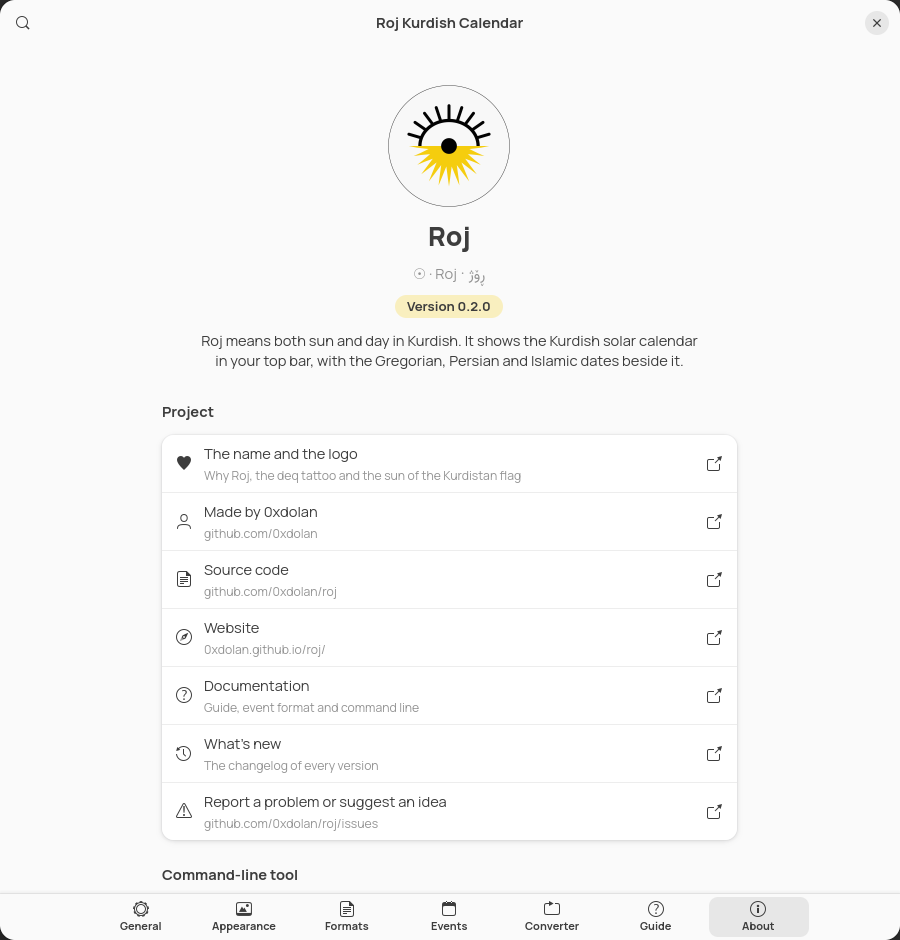
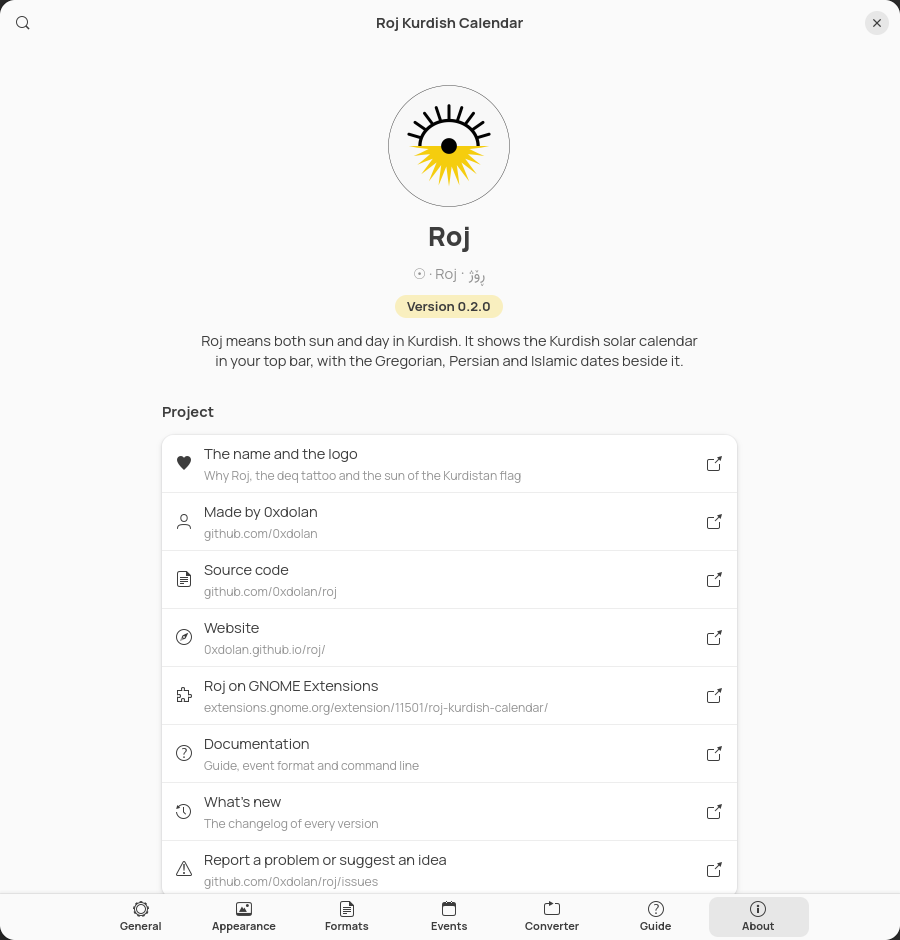
Link Roj's extensions.gnome.org listing
The listing (11501) is linked from the About page (EGO_URL), the README
badge, links and Install table, the website's install step and the
guide's Getting started.

Changed region(s): [[0.1867, 0.7096, 0.5289, 0.9564], [0.56, 0.7404, 0.5911, 0.7713]]

diff --git a/extension/prefs/aboutPage.js b/extension/prefs/aboutPage.js
@@ -9,7 +9,7 @@ import GObject from 'gi://GObject';
 import Gtk from 'gi://Gtk';
 
 import {
-    AUTHOR, AUTHOR_URL, CHANGELOG_URL, DOCS_URL, ISSUES_URL, PYROJ_URL, REPO_URL, SITE_URL,
+    AUTHOR, AUTHOR_URL, CHANGELOG_URL, DOCS_URL, EGO_URL, ISSUES_URL, PYROJ_URL, REPO_URL, SITE_URL,
     STORY_URL, TSROJ_URL, TSROJ_VERSION,
 } from '../lib/constants.js';
 import {textButton} from './common.js';
@@ -71,6 +71,7 @@ class RojAboutPage extends Adw.PreferencesPage {
         this._link(group, _('Made by {author}', {author: AUTHOR}), bare(AUTHOR_URL), AUTHOR_URL, 'avatar-default-symbolic');
         this._link(group, _('Source code'), bare(REPO_URL), REPO_URL, 'text-x-generic-symbolic');
         this._link(group, _('Website'), bare(SITE_URL), SITE_URL, 'web-browser-symbolic');
+        this._link(group, _('Roj on GNOME Extensions'), bare(EGO_URL), EGO_URL, 'application-x-addon-symbolic');
         this._link(group, _('Documentation'), _('Guide, event format and command line'), DOCS_URL, 'help-browser-symbolic');
         this._link(group, _('What’s new'), _('The changelog of every version'), CHANGELOG_URL, 'document-open-recent-symbolic');
         this._link(group, _('Report a problem or suggest an idea'), bare(ISSUES_URL), ISSUES_URL, 'dialog-warning-symbolic');

diff --git a/docs/index.html b/docs/index.html
@@ -81,7 +81,7 @@
       <h2>Install</h2>
       <p class="sub">The extension needs GNOME Shell 45 to 50: Ubuntu 24.04 and newer, Debian 13, Fedora 39 and newer, Kali with GNOME, and most current distributions. The <code>roj</code> command runs anywhere with GJS or Node.js.</p>
       <div class="steps">
-        <div class="step"><h3>extensions.gnome.org</h3><p>Search for <b>Roj</b> in the Extension Manager app, or on extensions.gnome.org, and switch it on. Updates arrive by themselves.</p></div>
+        <div class="step"><h3>extensions.gnome.org</h3><p>Open <a href="https://extensions.gnome.org/extension/11501/roj-kurdish-calendar/">Roj on extensions.gnome.org</a> and switch it on, or search for <b>Roj</b> in the Extension Manager app. Updates arrive by themselves.</p></div>
         <div class="step"><h3>Ubuntu PPA</h3><p>For Ubuntu 24.04, 25.10 and 26.04. apt keeps it up to date.</p>
 <pre><code>sudo add-apt-repository ppa:0xdolan/roj
 sudo apt install gnome-shell-extension-roj roj</code></pre></div>

diff --git a/docs/guide.html b/docs/guide.html
@@ -49,7 +49,7 @@
 
     <h2 id="start">Getting started</h2>
     <ol>
-      <li>Install Roj from extensions.gnome.org, the Ubuntu PPA, the .deb packages or the tarball. See <a href="./#install">Install</a>.</li>
+      <li>Install Roj from <a href="https://extensions.gnome.org/extension/11501/roj-kurdish-calendar/">extensions.gnome.org</a>, the Ubuntu PPA, the .deb packages or the tarball. See <a href="./#install">Install</a>.</li>
       <li>On Wayland, log out and back in once, so GNOME Shell loads it.</li>
       <li>The Kurdish date appears next to the clock. Click it to open the calendar.</li>
       <li>Choose your language: click <b>Settings</b> in the popup, then <b>General, Languages</b>.</li>

diff --git a/docs/calendar/engine/lib/constants.js b/docs/calendar/engine/lib/constants.js
@@ -10,6 +10,7 @@ export const AUTHOR = '0xdolan';
 export const REPO_URL = 'https://github.com/0xdolan/roj';
 export const SITE_URL = 'https://0xdolan.github.io/roj/';
 export const DOCS_URL = `${SITE_URL}guide.html`;
+export const EGO_URL = 'https://extensions.gnome.org/extension/11501/roj-kurdish-calendar/';
 export const ISSUES_URL = `${REPO_URL}/issues`;
 export const STORY_URL = `${SITE_URL}story.html`;
 export const CHANGELOG_URL = `${REPO_URL}/blob/main/CHANGELOG.md`;

diff --git a/extension/lib/constants.js b/extension/lib/constants.js
@@ -10,6 +10,7 @@ export const AUTHOR = '0xdolan';
 export const REPO_URL = 'https://github.com/0xdolan/roj';
 export const SITE_URL = 'https://0xdolan.github.io/roj/';
 export const DOCS_URL = `${SITE_URL}guide.html`;
+export const EGO_URL = 'https://extensions.gnome.org/extension/11501/roj-kurdish-calendar/';
 export const ISSUES_URL = `${REPO_URL}/issues`;
 export const STORY_URL = `${SITE_URL}story.html`;
 export const CHANGELOG_URL = `${REPO_URL}/blob/main/CHANGELOG.md`;

diff --git a/docs/calendar/engine/locale/ar.js b/docs/calendar/engine/locale/ar.js
@@ -29,6 +29,7 @@ export default {
     "Made by {author}": "من صنع {author}",
     "Source code": "الشيفرة المصدرية",
     "Website": "الموقع",
+    "Roj on GNOME Extensions": "روژ على GNOME Extensions",
     "Documentation": "التوثيق",
     "Guide, event format and command line": "الدليل وصيغة المناسبات وسطر الأوامر",
     "What’s new": "ما الجديد",

diff --git a/extension/locale/ar.js b/extension/locale/ar.js
@@ -29,6 +29,7 @@ export default {
     "Made by {author}": "من صنع {author}",
     "Source code": "الشيفرة المصدرية",
     "Website": "الموقع",
+    "Roj on GNOME Extensions": "روژ على GNOME Extensions",
     "Documentation": "التوثيق",
     "Guide, event format and command line": "الدليل وصيغة المناسبات وسطر الأوامر",
     "What’s new": "ما الجديد",

diff --git a/docs/calendar/engine/locale/ckb.js b/docs/calendar/engine/locale/ckb.js
@@ -29,6 +29,7 @@ export default {
     "Made by {author}": "دروستکراوی {author}",
     "Source code": "کۆدی سەرچاوە",
     "Website": "ماڵپەڕ",
+    "Roj on GNOME Extensions": "ڕۆژ لە GNOME Extensions",
     "Documentation": "ڕێنمایی",
     "Guide, event format and command line": "ڕێبەر، شێوازی بۆنەکان و هێڵی فەرمان",
     "What’s new": "چی نوێیە",

diff --git a/extension/locale/ckb.js b/extension/locale/ckb.js
@@ -29,6 +29,7 @@ export default {
     "Made by {author}": "دروستکراوی {author}",
     "Source code": "کۆدی سەرچاوە",
     "Website": "ماڵپەڕ",
+    "Roj on GNOME Extensions": "ڕۆژ لە GNOME Extensions",
     "Documentation": "ڕێنمایی",
     "Guide, event format and command line": "ڕێبەر، شێوازی بۆنەکان و هێڵی فەرمان",
     "What’s new": "چی نوێیە",

diff --git a/docs/calendar/engine/locale/fa.js b/docs/calendar/engine/locale/fa.js
@@ -29,6 +29,7 @@ export default {
     "Made by {author}": "ساختهی {author}",
     "Source code": "کد منبع",
     "Website": "وبسایت",
+    "Roj on GNOME Extensions": "روژ در GNOME Extensions",
     "Documentation": "مستندات",
     "Guide, event format and command line": "راهنما، قالب رویدادها و خط فرمان",
     "What’s new": "تازهها",

diff --git a/extension/locale/fa.js b/extension/locale/fa.js
@@ -29,6 +29,7 @@ export default {
     "Made by {author}": "ساختهی {author}",
     "Source code": "کد منبع",
     "Website": "وبسایت",
+    "Roj on GNOME Extensions": "روژ در GNOME Extensions",
     "Documentation": "مستندات",
     "Guide, event format and command line": "راهنما، قالب رویدادها و خط فرمان",
     "What’s new": "تازهها",

diff --git a/docs/calendar/engine/locale/kmr.js b/docs/calendar/engine/locale/kmr.js
@@ -29,6 +29,7 @@ export default {
     "Made by {author}": "Ji aliyê {author} ve hatiye çêkirin",
     "Source code": "Koda çavkaniyê",
     "Website": "Malper",
+    "Roj on GNOME Extensions": "Roj li ser GNOME Extensions",
     "Documentation": "Belgekirin",
     "Guide, event format and command line": "Rêber, şêwaza bûyeran û rêza fermanan",
     "What’s new": "Çi nû ye",
